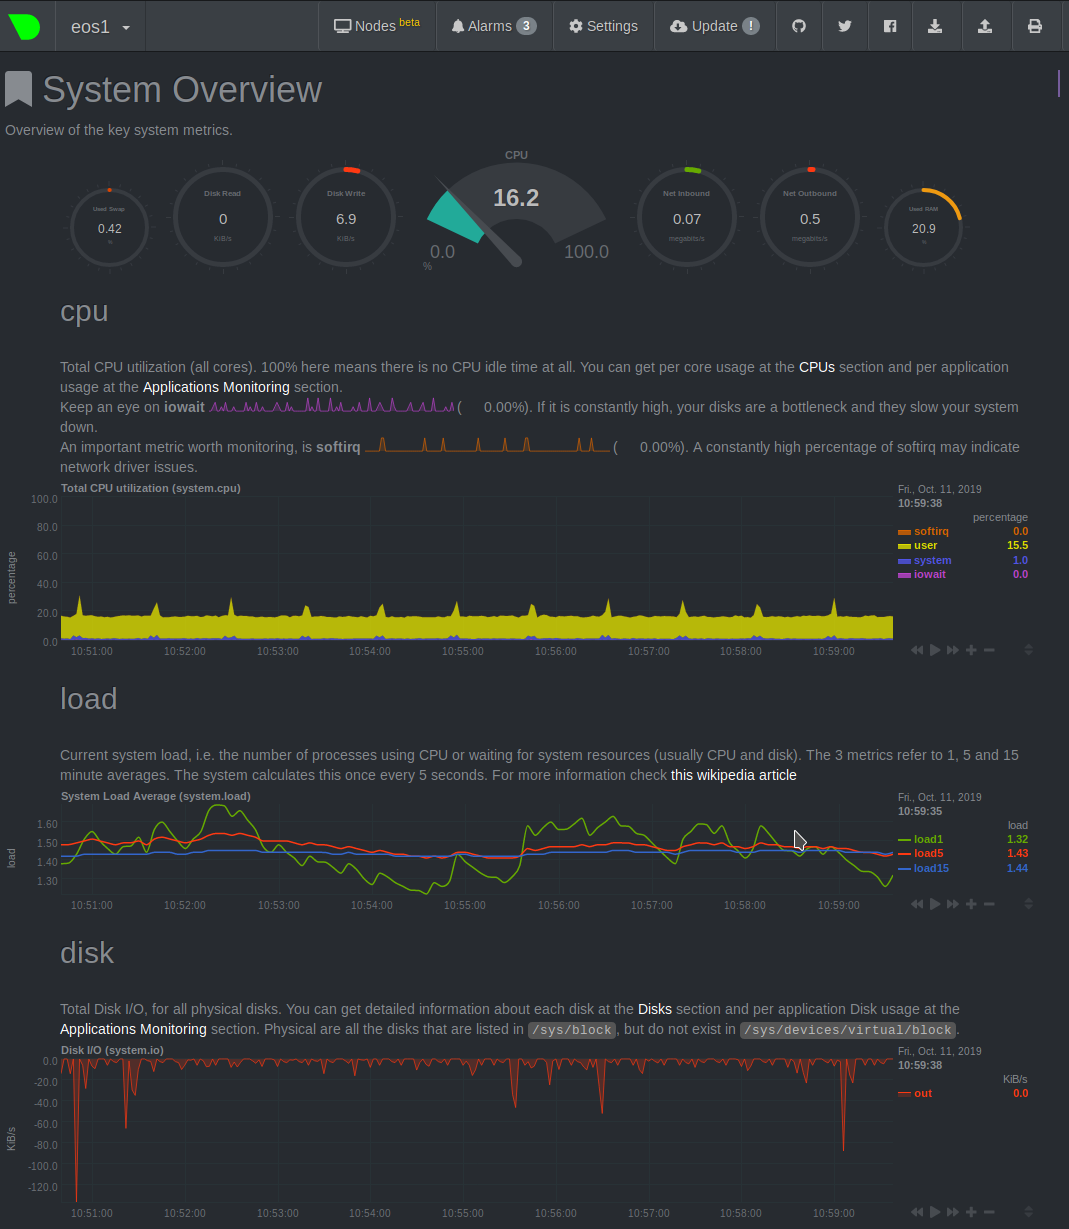
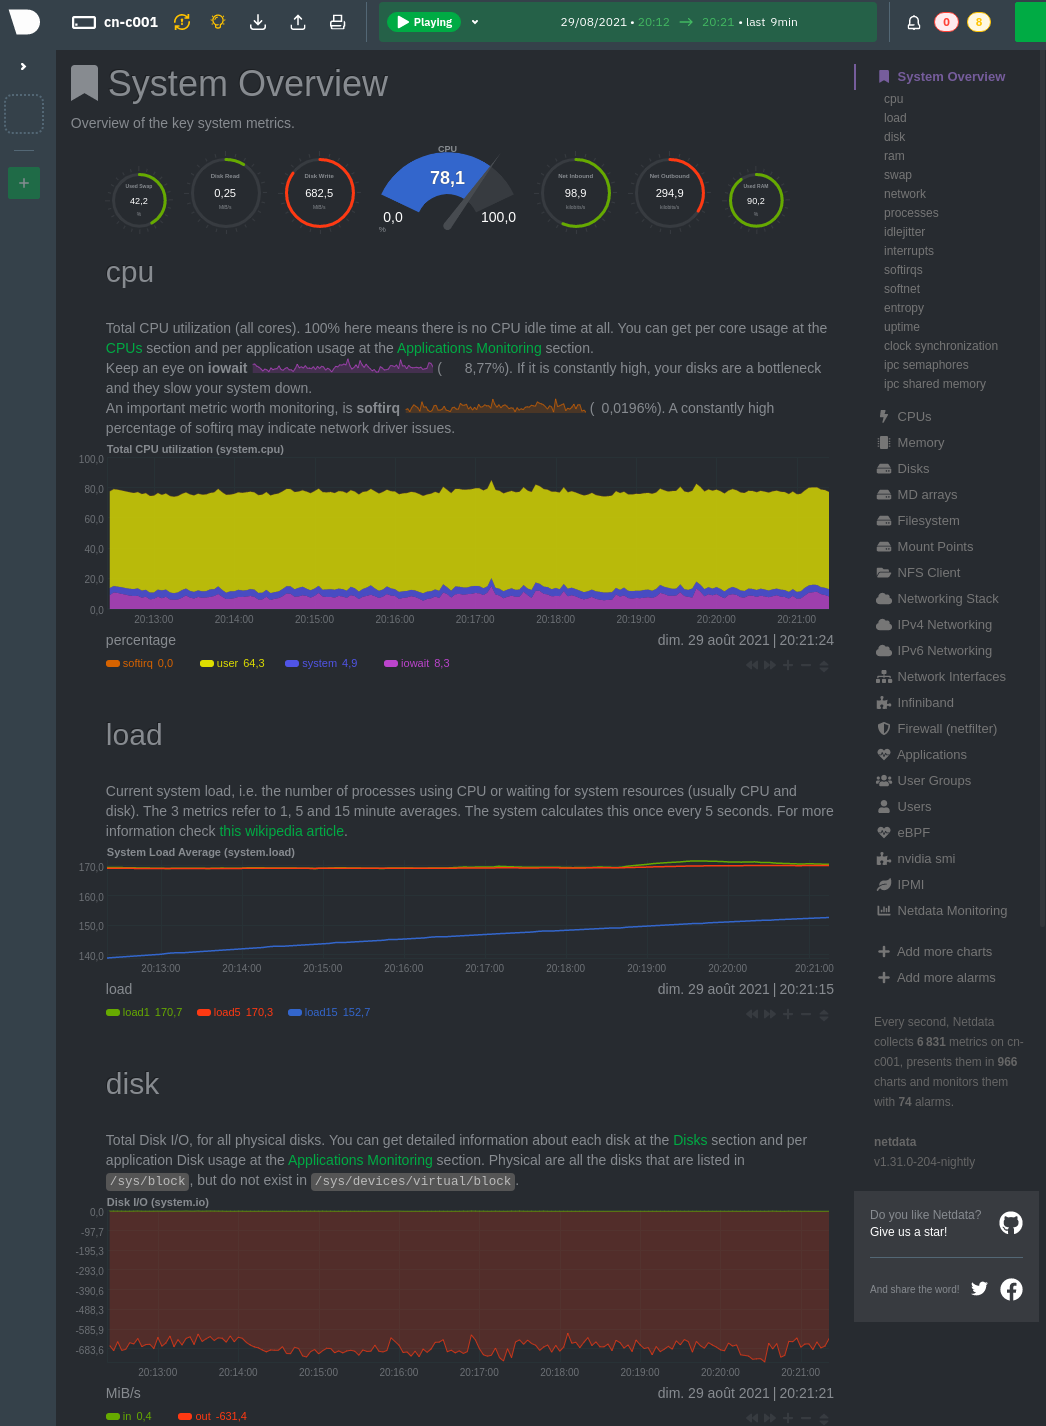
Fix node hostname and screenshot in monitoring

diff --git a/docs/Information_monitoring.rst b/docs/Information_monitoring.rst
@@ -19,11 +19,11 @@ of the Mila cluster and to sound the alarm if outages occur
 (e.g. if the nodes crash or if GPUs mysteriously become unavailable for SLURM).
 
 
-Example with Netdata on cn_c001
+Example with Netdata on cn-c001
 -------------------------------
 
-For example, if we have a job running on ``cn_c001``, we can type
-``cn_c001.server.mila.quebec:19999`` in a browser address bar and the following
+For example, if we have a job running on ``cn-c001``, we can type
+``cn-c001.server.mila.quebec:19999`` in a browser address bar and the following
 page will appear.
 
 .. image:: monitoring.png
